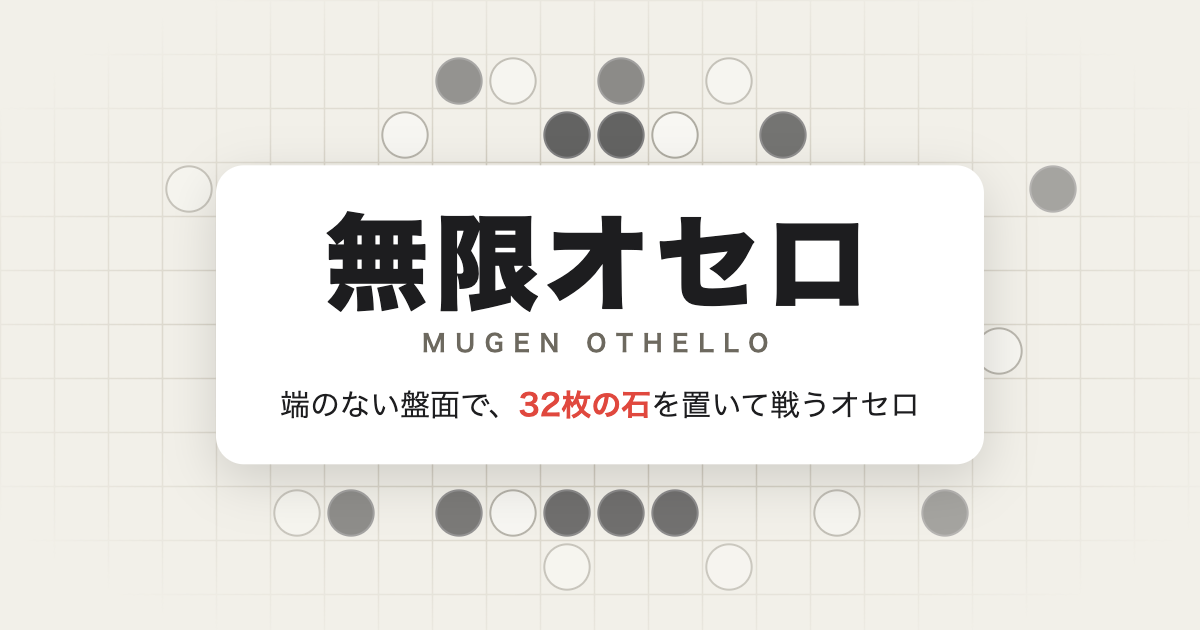
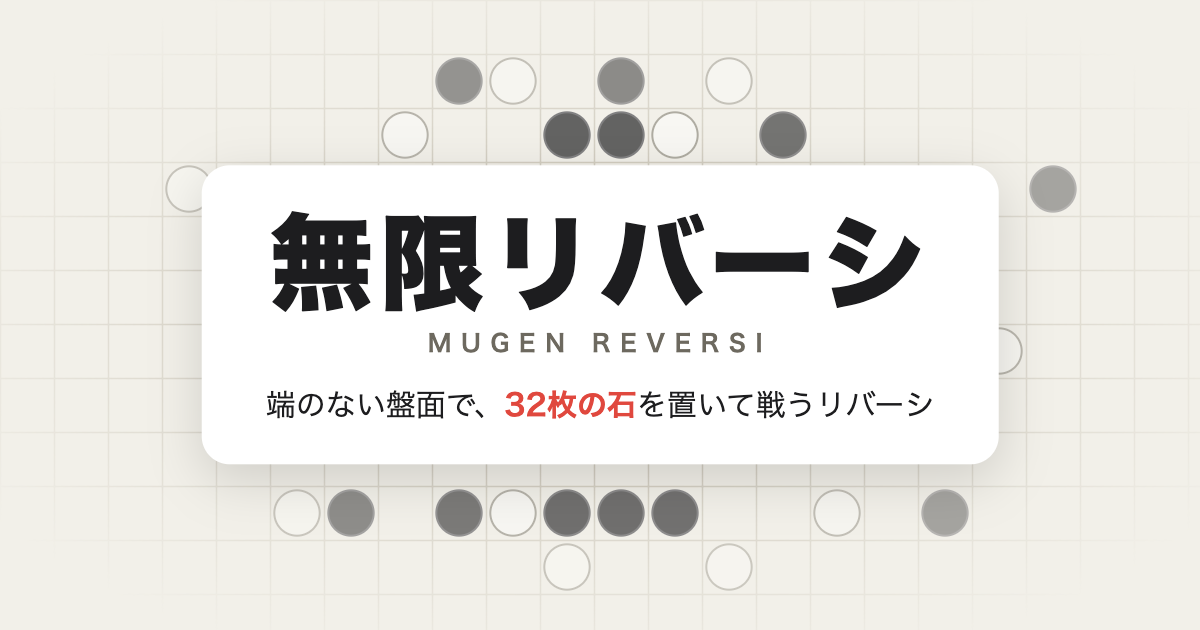
「無限オセロ」から「無限リバーシ」に改名し、URL を /mugen-reversi/ に変更
「オセロ」は株式会社メガハウスの登録商標のため。
- 画面・ページ説明・OGP 画像・告知動画の台本・README の名前を変更
- slug を mugen-reversi に（ビルドの出力先・Worker 名・公開URL・リポジトリ名）
- 旧URL /mugen-othello/ を新URLへ 301 転送する Worker を追加（tools/old-url-redirect）

diff --git a/index.html b/index.html
@@ -5,13 +5,13 @@
     <meta name="viewport" content="width=device-width, initial-scale=1, maximum-scale=1, user-scalable=no, viewport-fit=cover" />
     <meta name="theme-color" content="#f2f0e9" />
     <link rel="icon" type="image/svg+xml" href="./favicon.svg" />
-    <title>無限オセロ</title>
-    <meta name="description" content="無限に広がる盤面で、通常のオセロと同じ32枚の石を置いて戦うオセロ。角も辺もない盤で、コンピュータ（4段階の強さ）と対戦できます。" />
+    <title>無限リバーシ</title>
+    <meta name="description" content="無限に広がる盤面で、通常のリバーシと同じ32枚の石を置いて戦うリバーシ。角も辺もない盤で、コンピュータ（4段階の強さ）と対戦できます。" />
     <meta property="og:type" content="website" />
-    <meta property="og:title" content="無限オセロ" />
-    <meta property="og:description" content="無限に広がる盤面で、通常のオセロと同じ32枚の石を置いて戦うオセロ。コンピュータと対戦できます。" />
-    <meta property="og:url" content="https://game.chozo.net/mugen-othello/" />
-    <meta property="og:image" content="https://game.chozo.net/mugen-othello/og.png" />
+    <meta property="og:title" content="無限リバーシ" />
+    <meta property="og:description" content="無限に広がる盤面で、通常のリバーシと同じ32枚の石を置いて戦うリバーシ。コンピュータと対戦できます。" />
+    <meta property="og:url" content="https://game.chozo.net/mugen-reversi/" />
+    <meta property="og:image" content="https://game.chozo.net/mugen-reversi/og.png" />
     <meta property="og:image:width" content="1200" />
     <meta property="og:image:height" content="630" />
     <meta name="twitter:card" content="summary_large_image" />
@@ -50,8 +50,8 @@
 
       <div class="screen" id="title" hidden>
         <div class="card title-card">
-          <div class="title-name">無限オセロ</div>
-          <div class="title-en">MUGEN OTHELLO</div>
+          <div class="title-name">無限リバーシ</div>
+          <div class="title-en">MUGEN REVERSI</div>
           <svg class="title-art" viewBox="0 0 260 120" aria-hidden="true">
             <defs>
               <radialGradient id="fade" cx="50%" cy="50%" r="50%">
@@ -81,13 +81,13 @@
             <circle cx="230" cy="30" r="8" class="sb" opacity="0.34" />
             <circle cx="30" cy="30" r="8" class="sw" opacity="0.34" />
           </svg>
-          <p class="title-lead">無限に広がる盤面で、通常のオセロと同じ<b>32枚の石</b>を置いて戦うオセロです。</p>
+          <p class="title-lead">無限に広がる盤面で、通常のリバーシと同じ<b>32枚の石</b>を置いて戦うリバーシです。</p>
           <button id="btn-play-top" type="button" class="primary big play-top">あそぶ</button>
 
           <ul class="features">
             <li><b>盤面に端がない</b>角も辺もありません。戦いはどの方向へも広がっていきます。</li>
             <li><b>石は32枚ずつ</b>初期配置の2枚を除いて、置けるのは30枚。石を返されても手持ちは増えません。</li>
-            <li><b>ルールはオセロのまま</b>相手の石をはさめる場所に置いて、はさんだ石を裏返します。全部置き終えたとき、盤上の石が多い方の勝ちです。</li>
+            <li><b>ルールはリバーシのまま</b>相手の石をはさめる場所に置いて、はさんだ石を裏返します。全部置き終えたとき、盤上の石が多い方の勝ちです。</li>
           </ul>
 
           <div class="howto-title">操作方法</div>

diff --git a/tools/promo/scenario.js b/tools/promo/scenario.js
@@ -1,18 +1,18 @@
-// 無限オセロの告知動画の台本。ポップで楽しい雰囲気に。
+// 無限リバーシの告知動画の台本。ポップで楽しい雰囲気に。
 // 「あなた」（白・後手）の手は pickMove で選び、画面上の位置をタップする。
 // 強いコンピュータ同士だと直線を伸ばし合う細長い盤面になり、画面映えしないので、
 // 「多く返せる・盤面の中心に近い」手を選んで、白黒が入り混じる密な盤面にする。相手はコンピュータ（ふつう）。字幕は時刻で決め打ちせず、着手・終局の出来事に合わせる。
 // 使える操作はスキルの references/scenario-api.md を参照。
 
 export const config = {
-  slug: 'mugen-othello',
-  url: 'https://game.chozo.net/mugen-othello/',
+  slug: 'mugen-reversi',
+  url: 'https://game.chozo.net/mugen-reversi/',
   orientation: 'portrait',
   game: { width: 390, height: 693 },
   // 字幕を上に出すので、ゲーム画面は少し下に置く
   layout: { centerX: 0.47, centerY: 0.5, maxW: 0.72, maxH: 0.6 },
   serveDir: 'dist',
-  gamePath: '/mugen-othello/',
+  gamePath: '/mugen-reversi/',
   // BGM はゲームの BGM（__game.promoBgm）を効果音と同じ経路で書き出す
   music: false,
 };
@@ -124,7 +124,7 @@ export default async function scenario(p) {
   p.flash({ dur: 0.3, strength: 0.8 });
 
   // ---------- 2.4〜5.6秒 タイトル ----------
-  p.title({ title: '無限オセロ', sub: '端のない盤面で\n32枚の石の陣取り！', logo: 'logo.svg', dur: 3.2 });
+  p.title({ title: '無限リバーシ', sub: '端のない盤面で\n32枚の石の陣取り！', logo: 'logo.svg', dur: 3.2 });
   await p.wait(3.4);
 
   // ---------- 5.6〜 実際のプレイ（最初から） ----------
@@ -206,6 +206,6 @@ export default async function scenario(p) {
   p.off('end');
 
   // ---------- エンドカード ----------
-  p.endCard({ title: '無限オセロ', sub: 'CPUと対戦・4段階の強さ', cta: '今すぐ遊べる！', logo: 'logo.svg' });
+  p.endCard({ title: '無限リバーシ', sub: 'CPUと対戦・4段階の強さ', cta: '今すぐ遊べる！', logo: 'logo.svg' });
   await p.wait(3);
 }

diff --git a/src/core/game.ts b/src/core/game.ts
@@ -1,4 +1,4 @@
-// 無限盤オセロのルール本体。描画やDOMに依存しない純粋なロジック。
+// 無限盤リバーシのルール本体。描画やDOMに依存しない純粋なロジック。
 // 盤面は Map<"x,y", Color> で持ち、負を含む任意の整数座標を扱う。
 
 export type Color = 'B' | 'W';
@@ -56,7 +56,7 @@ export const opponent = (c: Color): Color => (c === 'B' ? 'W' : 'B');
 export interface GameOptions {
   /** 各プレイヤーがゲーム中に新しく置ける石の数（初期配置分を除く） */
   stock?: number;
-  /** 初期配置。省略時は通常オセロと同じ 2×2 */
+  /** 初期配置。省略時は通常リバーシと同じ 2×2 */
   initial?: Array<[number, number, Color]>;
   first?: Color;
 }

diff --git a/tools/old-url-redirect/index.js b/tools/old-url-redirect/index.js
@@ -1,0 +1,10 @@
+// 旧URL（/mugen-othello/…）を新URL（/mugen-reversi/…）へ恒久的に転送する。
+// 「無限オセロ」から「無限リバーシ」に改名したため（「オセロ」は株式会社メガハウスの登録商標）。
+// 公開: npx wrangler deploy --config tools/old-url-redirect/wrangler.jsonc
+export default {
+  fetch(request) {
+    const url = new URL(request.url);
+    url.pathname = url.pathname.replace(/^\/mugen-othello(?=\/|$)/, '/mugen-reversi');
+    return Response.redirect(url.toString(), 301);
+  },
+};

diff --git a/src/main.ts b/src/main.ts
@@ -364,7 +364,7 @@ $('btn-howto').addEventListener('click', showTitle);
 $('btn-play-top').addEventListener('click', () => openSetup());
 $('btn-play').addEventListener('click', () => openSetup());
 
-/** タイトル画面（このオセロの特徴と操作方法） */
+/** タイトル画面（このリバーシの特徴と操作方法） */
 function showTitle() {
   $('setup').hidden = true;
   $('result').hidden = true;

diff --git a/tests/game.test.ts b/tests/game.test.ts
@@ -31,7 +31,7 @@ function bruteForceLegal(g: Game, color: Color): string[] {
 }
 
 describe('初期配置', () => {
-  it('通常オセロと同じ 2×2 で黒から始まり、黒の合法手は4つ', () => {
+  it('通常リバーシと同じ 2×2 で黒から始まり、黒の合法手は4つ', () => {
     const g = new Game();
     expect(g.get(0, 0)).toBe('W');
     expect(g.get(1, 0)).toBe('B');

diff --git a/vite.config.ts b/vite.config.ts
@@ -2,5 +2,5 @@ import { defineConfig } from 'vite';
 
 export default defineConfig({
   base: './',
-  build: { outDir: 'dist/mugen-othello' },
+  build: { outDir: 'dist/mugen-reversi' },
 });
